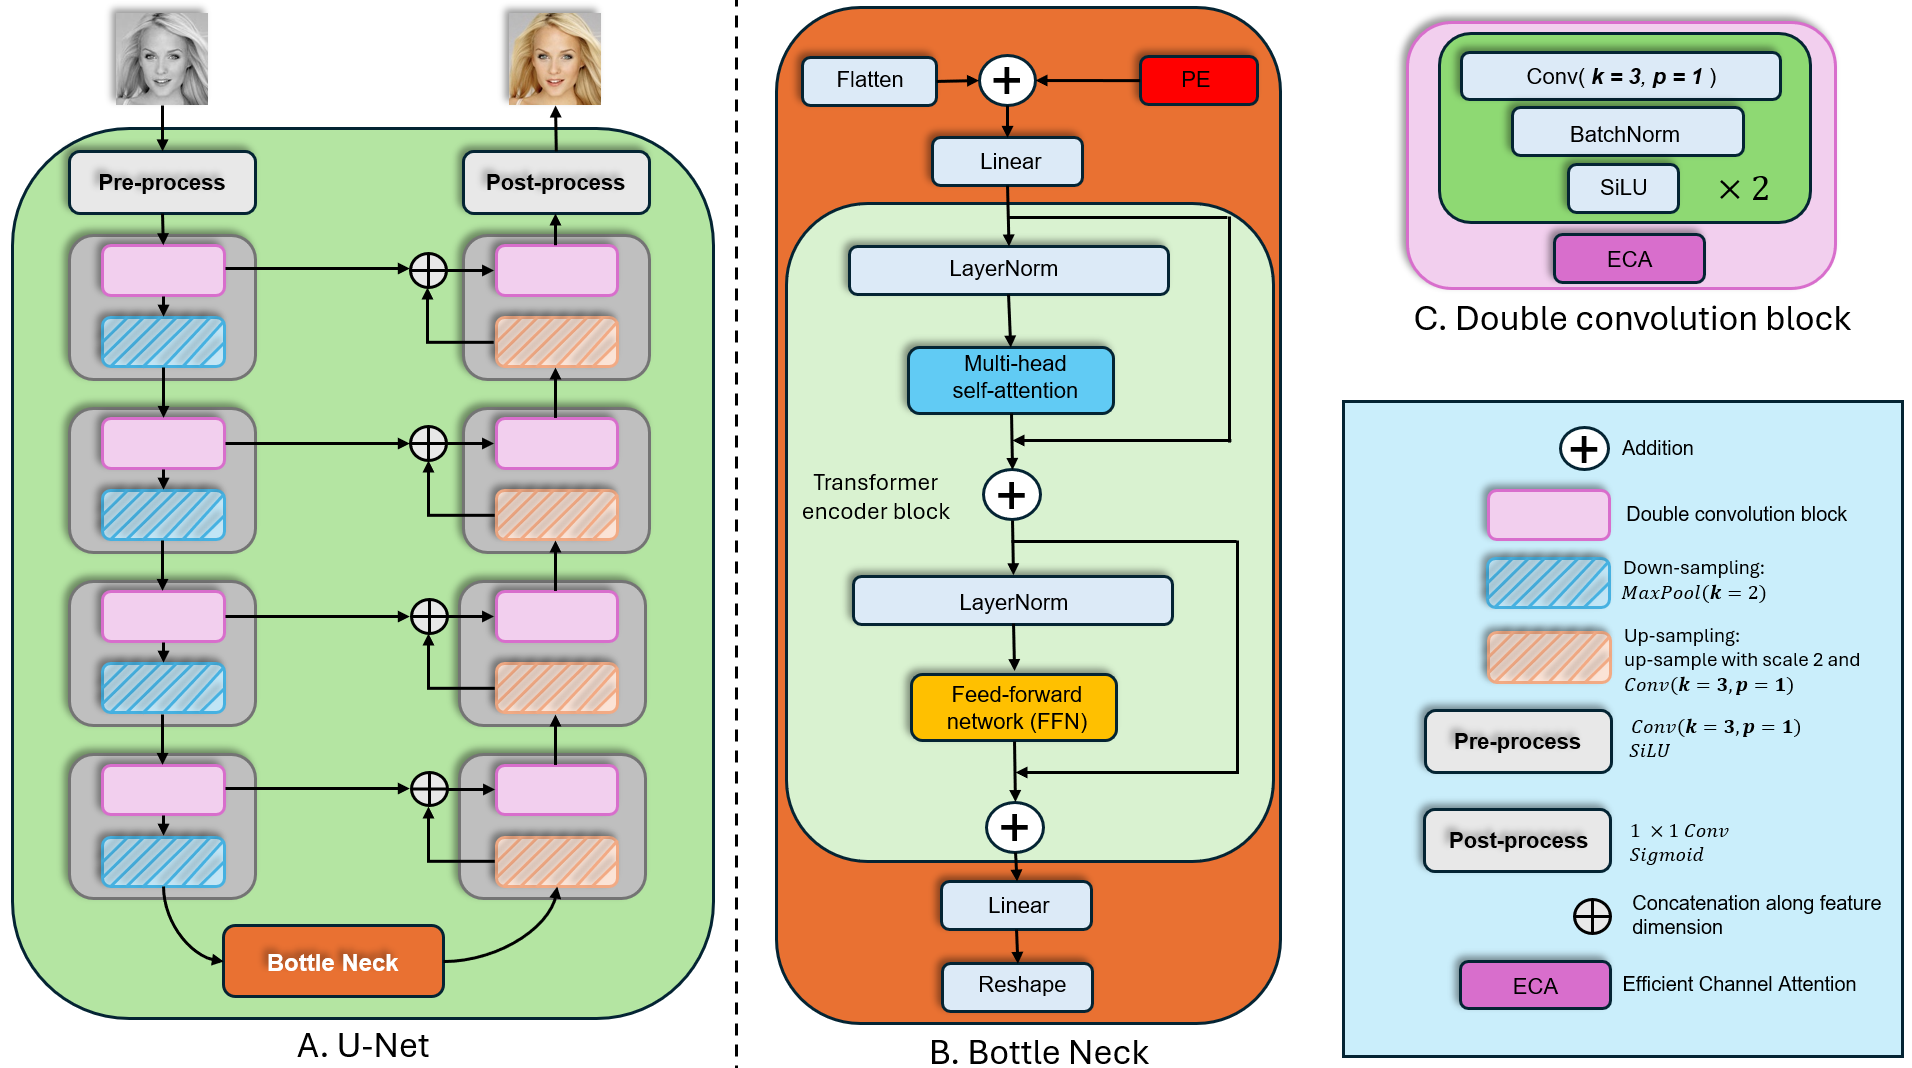
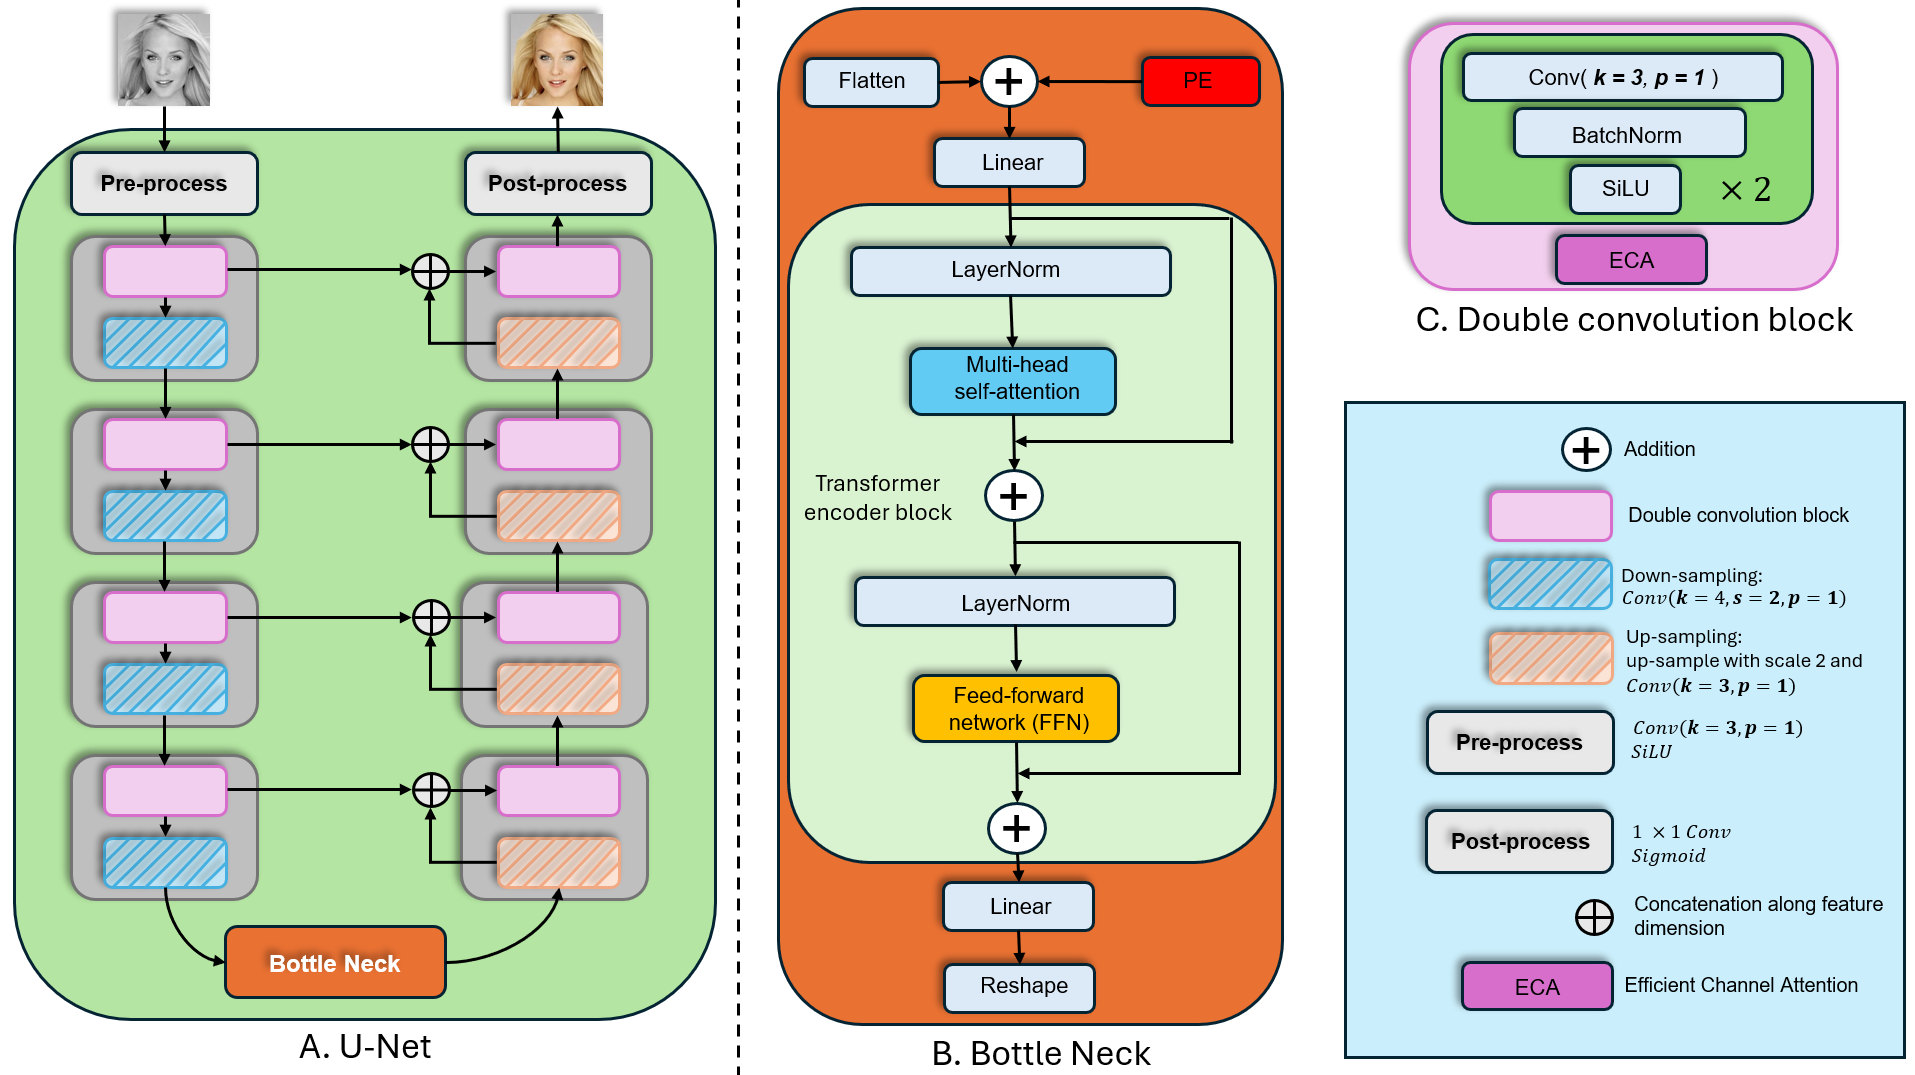
feat (unet): use convolutional layers for *downsampling* instead of MaxPool

diff --git a/models/unet.py b/models/unet.py
@@ -150,7 +150,8 @@ class EncoderBlock(nn.Module):
     def __init__(self, num_features):
         super().__init__()
         self.downsampling = nn.Sequential(
-            nn.MaxPool2d(kernel_size=2)
+            # nn.MaxPool2d(kernel_size=2)
+            nn.Conv2d(in_channels=2*num_features, out_channels=2*num_features, kernel_size=4, stride=2, padding=1)
         )
         self.encode = DoubleConvBlock(in_channels=num_features, out_channels=2*num_features)
 

diff --git a/models/__init__.py b/models/__init__.py
@@ -1,2 +1,1 @@
 from .unet import UNet
-from .gan import PatchGAN
